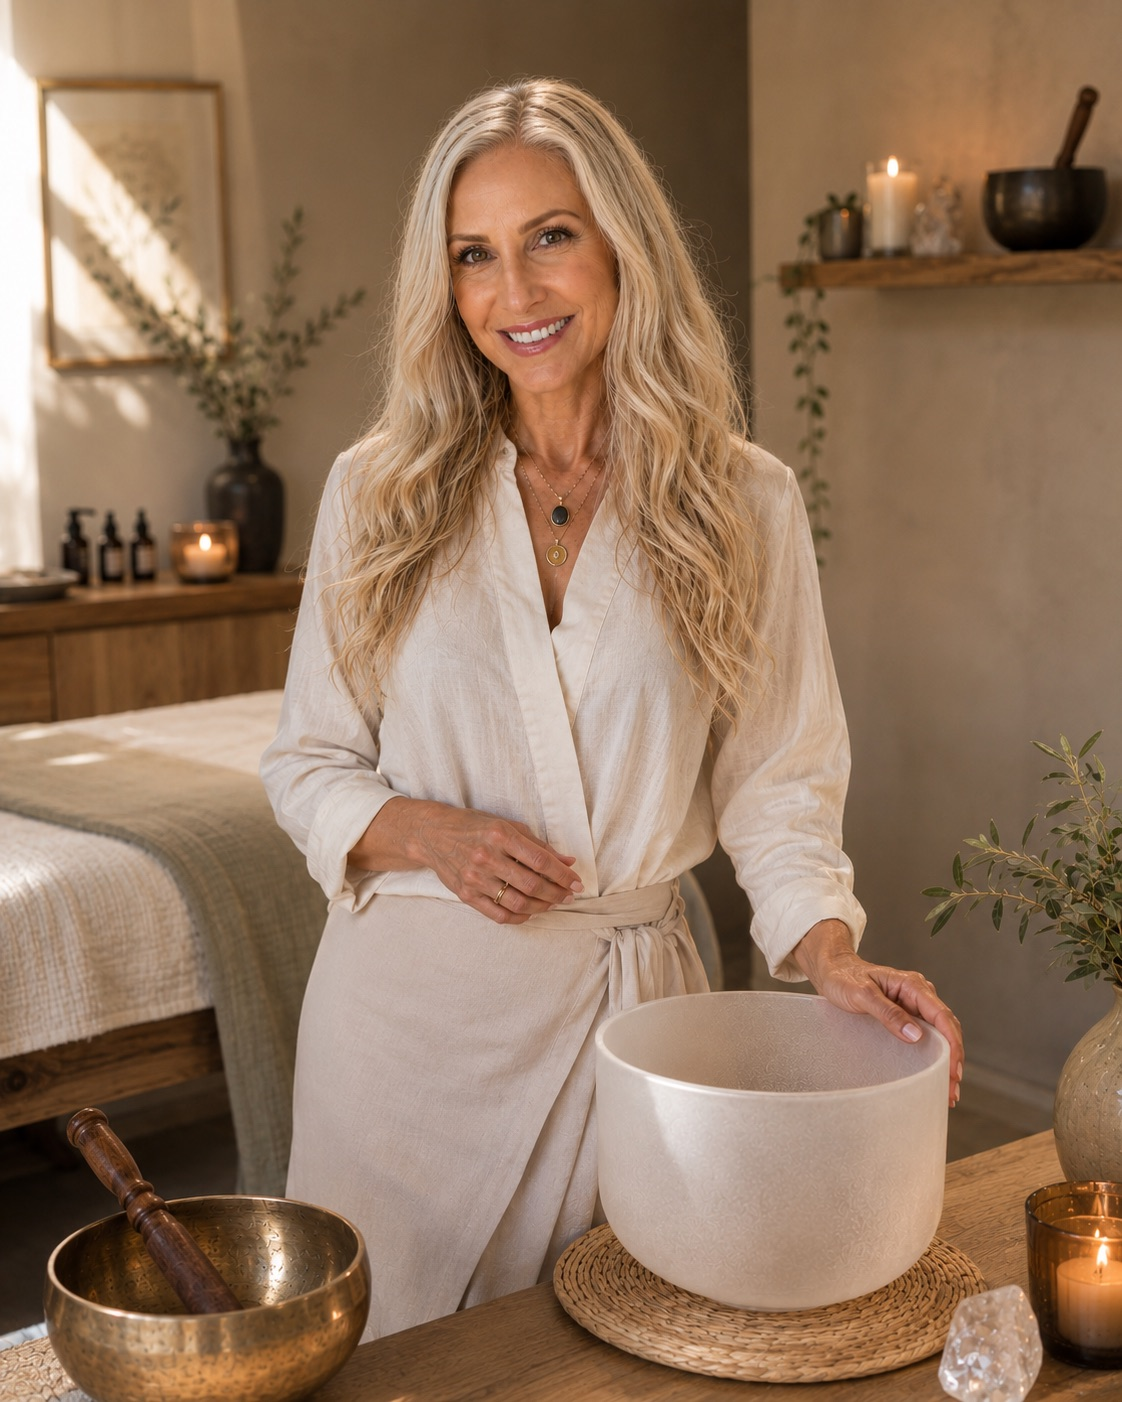
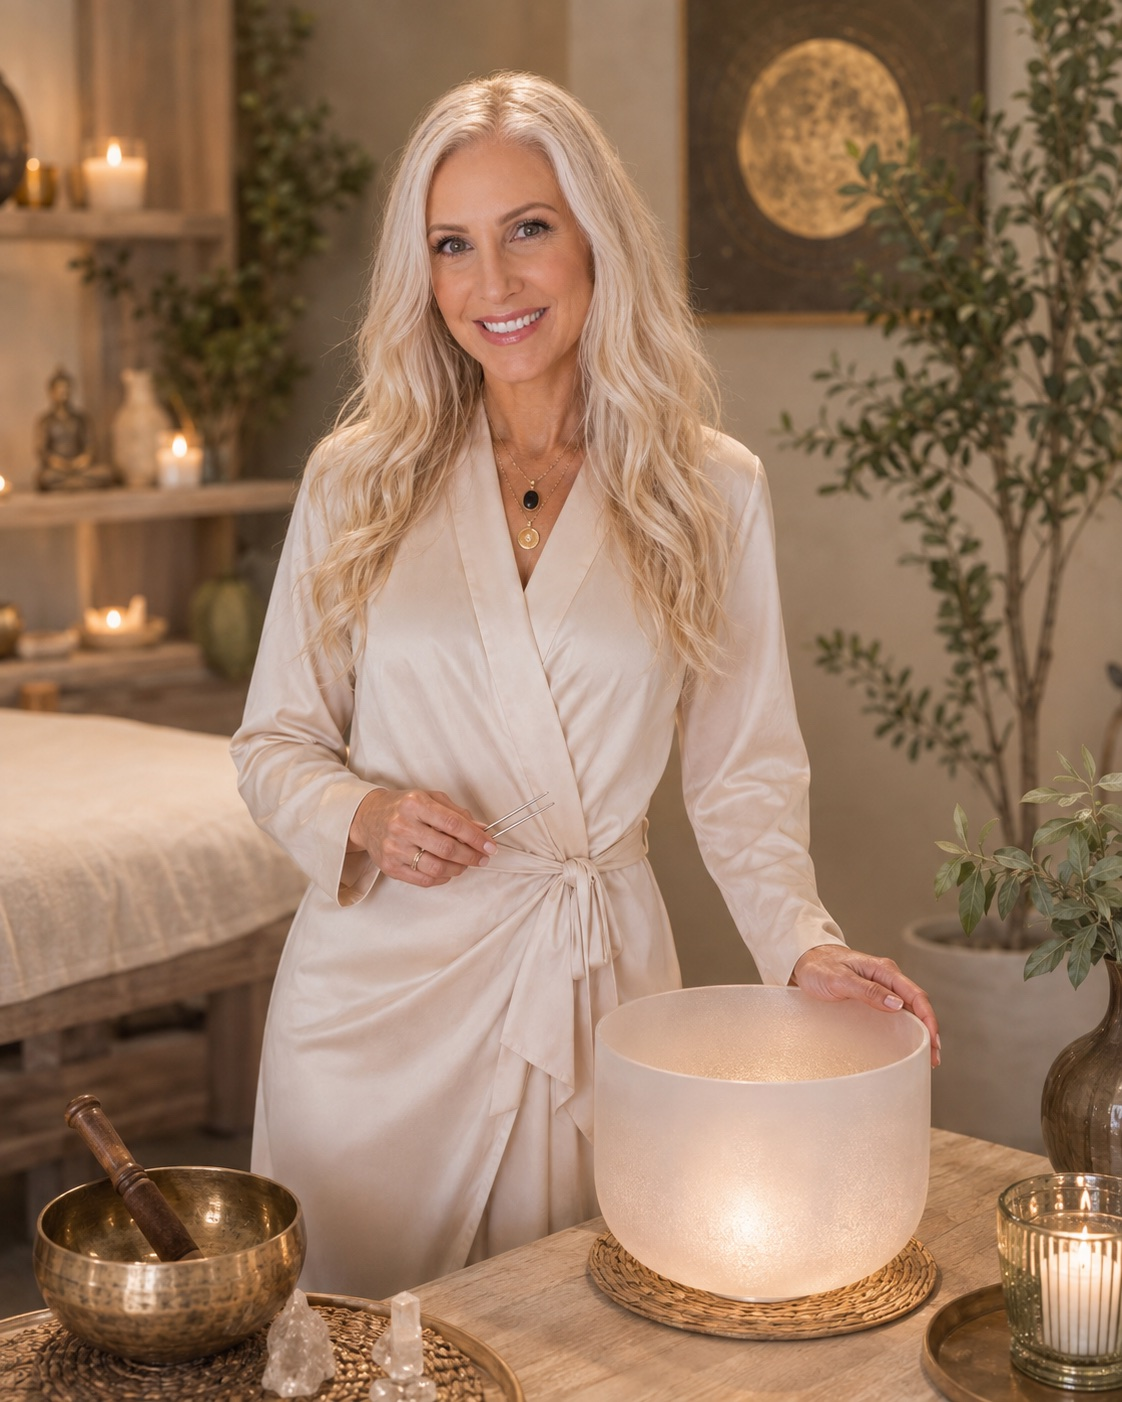
finaing edits

diff --git a/src/assets/styles/global.css b/src/assets/styles/global.css
@@ -123,6 +123,31 @@ picture {
     animation: image-settle 900ms var(--ease-soft) both;
   }
 
+  .brand-eye-mark {
+    display: inline-block;
+    transform-origin: center;
+    transition: transform 500ms var(--ease-editorial);
+  }
+
+  .magic-line::after {
+    content: "";
+    display: block;
+    width: 5.4rem;
+    height: 0.62rem;
+    margin-top: 0.72rem;
+    border-bottom: 2px solid rgba(184, 153, 95, 0.82);
+    border-radius: 999px 60% 999px 45%;
+    transform: rotate(-1.8deg);
+  }
+
+  .gold-pen-mark {
+    width: 5rem;
+    height: 0.7rem;
+    border-bottom: 2px solid rgba(184, 153, 95, 0.72);
+    border-radius: 55% 999px 40% 999px;
+    transform: rotate(-2deg);
+  }
+
 }
 
 @keyframes image-settle {
